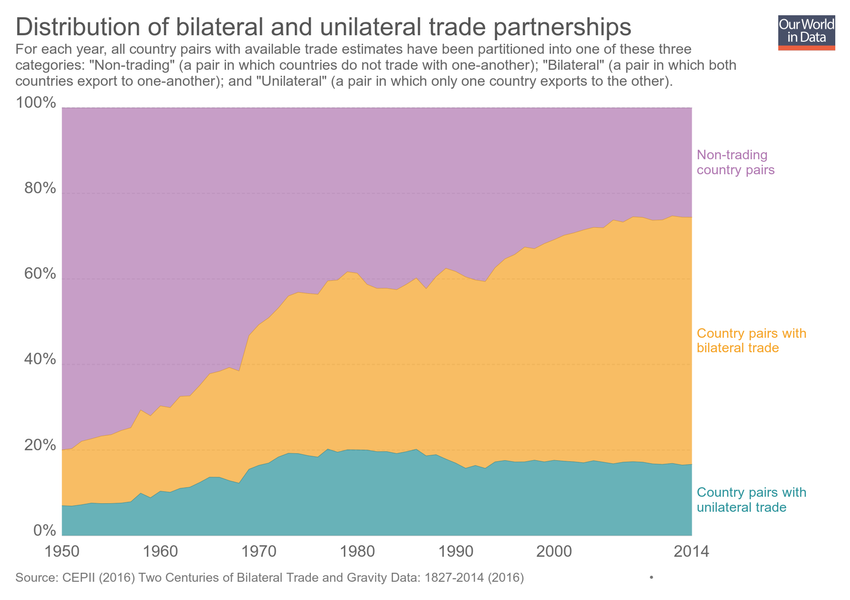
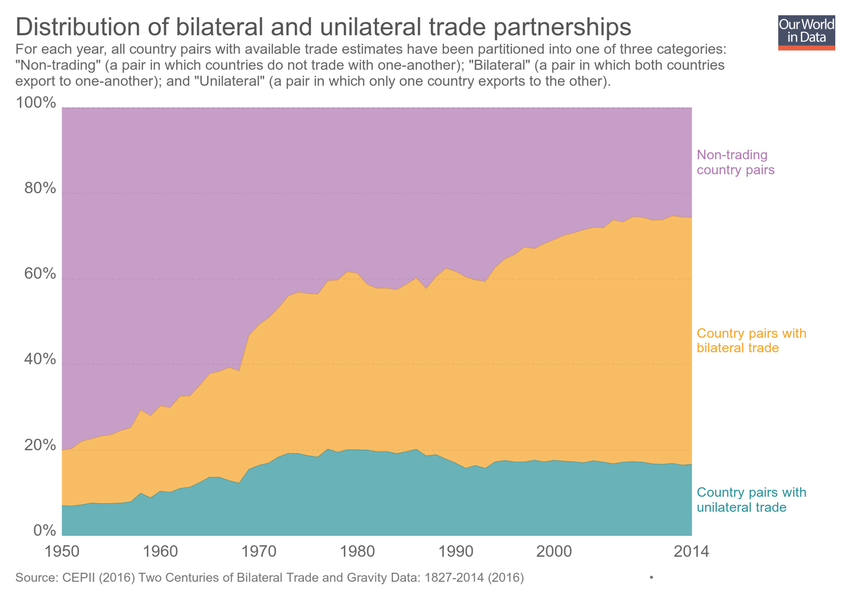
Updating chart distribution-of-bilateral-and-unilateral-trade-partnerships

Changed region(s): [[0.0, 0.06, 0.8565, 0.15]]

diff --git a/grapher/distribution-of-bilateral-and-unilateral-trade-partnerships.html b/grapher/distribution-of-bilateral-and-unilateral-trade-partnerships.html
@@ -1,4 +1,4 @@
-<!doctype html><html><head><meta name="viewport" content="width=device-width, initial-scale=1" /><title>Distribution of bilateral and unilateral trade partnerships - Our World in Data</title><meta name="description" content="For each year, all country pairs with available trade estimates have been partitioned into one of these three categories: &quot;Non-trading&quot; (a pair in which countries do not trade with one-another); &quot;Bilateral&quot; (a pair in which both countries export to one-another); and &quot;Unilateral&quot; (a pair in which only one country exports to the other)." /><link rel="canonical" href="https://ourworldindata.org/grapher/distribution-of-bilateral-and-unilateral-trade-partnerships" /><meta property="fb:app_id" content="1149943818390250" /><meta property="og:url" content="https://ourworldindata.org/grapher/distribution-of-bilateral-and-unilateral-trade-partnerships" /><meta property="og:title" content="Distribution of bilateral and unilateral trade partnerships" /><meta property="og:description" content="For each year, all country pairs with available trade estimates have been partitioned into one of these three categories: &quot;Non-trading&quot; (a pair in which countries do not trade with one-another); &quot;Bilateral&quot; (a pair in which both countries export to one-another); and &quot;Unilateral&quot; (a pair in which only one country exports to the other)." /><meta property="og:image" content="https://ourworldindata.org/grapher/exports/distribution-of-bilateral-and-unilateral-trade-partnerships.png?v=4" /><meta property="og:image:width" content="850" /><meta property="og:image:height" content="600" /><meta property="og:site_name" content="Our World in Data" /><meta name="twitter:card" content="summary_large_image" /><meta name="twitter:site" content="@OurWorldInData" /><meta name="twitter:creator" content="@OurWorldInData" /><meta name="twitter:title" content="Distribution of bilateral and unilateral trade partnerships" /><meta name="twitter:description" content="For each year, all country pairs with available trade estimates have been partitioned into one of these three categories: &quot;Non-trading&quot; (a pair in which countries do not trade with one-another); &quot;Bilateral&quot; (a pair in which both countries export to one-another); and &quot;Unilateral&quot; (a pair in which only one country exports to the other)." /><meta name="twitter:image" content="https://ourworldindata.org/grapher/exports/distribution-of-bilateral-and-unilateral-trade-partnerships.png?v=4" /><style>
+<!doctype html><html><head><meta name="viewport" content="width=device-width, initial-scale=1" /><title>Distribution of bilateral and unilateral trade partnerships - Our World in Data</title><meta name="description" content="For each year, all country pairs with available trade estimates have been partitioned into one of three categories: &quot;Non-trading&quot; (a pair in which countries do not trade with one-another); &quot;Bilateral&quot; (a pair in which both countries export to one-another); and &quot;Unilateral&quot; (a pair in which only one country exports to the other)." /><link rel="canonical" href="https://ourworldindata.org/grapher/distribution-of-bilateral-and-unilateral-trade-partnerships" /><meta property="fb:app_id" content="1149943818390250" /><meta property="og:url" content="https://ourworldindata.org/grapher/distribution-of-bilateral-and-unilateral-trade-partnerships" /><meta property="og:title" content="Distribution of bilateral and unilateral trade partnerships" /><meta property="og:description" content="For each year, all country pairs with available trade estimates have been partitioned into one of three categories: &quot;Non-trading&quot; (a pair in which countries do not trade with one-another); &quot;Bilateral&quot; (a pair in which both countries export to one-another); and &quot;Unilateral&quot; (a pair in which only one country exports to the other)." /><meta property="og:image" content="https://ourworldindata.org/grapher/exports/distribution-of-bilateral-and-unilateral-trade-partnerships.png?v=5" /><meta property="og:image:width" content="850" /><meta property="og:image:height" content="600" /><meta property="og:site_name" content="Our World in Data" /><meta name="twitter:card" content="summary_large_image" /><meta name="twitter:site" content="@OurWorldInData" /><meta name="twitter:creator" content="@OurWorldInData" /><meta name="twitter:title" content="Distribution of bilateral and unilateral trade partnerships" /><meta name="twitter:description" content="For each year, all country pairs with available trade estimates have been partitioned into one of three categories: &quot;Non-trading&quot; (a pair in which countries do not trade with one-another); &quot;Bilateral&quot; (a pair in which both countries export to one-another); and &quot;Unilateral&quot; (a pair in which only one country exports to the other)." /><meta name="twitter:image" content="https://ourworldindata.org/grapher/exports/distribution-of-bilateral-and-unilateral-trade-partnerships.png?v=5" /><style>
         html, body {
             height: 100%;
             margin: 0;
@@ -20,8 +20,8 @@
         }
     </style><noscript><style>
                     figure { display: none !important; }
-                </style></noscript><link rel="stylesheet" href="https://ourworldindata.org/grapher/assets/commons.bundle.f1a1d21b78c2ceaa055d.css" /><link rel="preload" href="/grapher/data/variables/97653+97651+97652.json?v=4" as="fetch" crossorigin /></head><body class="singleChart"><figure data-grapher-src="/grapher/distribution-of-bilateral-and-unilateral-trade-partnerships"></figure><noscript id="fallback"><img src="/grapher/exports/distribution-of-bilateral-and-unilateral-trade-partnerships.svg" /><p>Interactive visualization requires JavaScript</p></noscript><script src="https://cdn.polyfill.io/v2/polyfill.min.js?features=es6,fetch"></script><script src="https://ourworldindata.org/grapher/assets/commons.bundle.f1a1d21b78c2ceaa055d.js"></script><script src="https://ourworldindata.org/grapher/assets/charts.bundle.f1a1d21b78c2ceaa055d.js"></script><script>
-        var jsonConfig = {"id":2848,"map":{"projection":"World","colorSchemeLabels":[],"colorSchemeValues":[],"customNumericColors":[],"customCategoryColors":{},"customCategoryLabels":{},"customHiddenCategories":{}},"tab":"chart","slug":"distribution-of-bilateral-and-unilateral-trade-partnerships","type":"StackedArea","title":"Distribution of bilateral and unilateral trade partnerships","xAxis":{"scaleType":"linear"},"yAxis":{"min":0,"scaleType":"linear"},"version":4,"subtitle":"For each year, all country pairs with available trade estimates have been partitioned into one of these three categories: \"Non-trading\" (a pair in which countries do not trade with one-another); \"Bilateral\" (a pair in which both countries export to one-another); and \"Unilateral\" (a pair in which only one country exports to the other).","hasMapTab":false,"stackMode":"relative","dimensions":[{"display":{"name":"Country pairs with bilateral trade"},"property":"y","variableId":97653},{"display":{"name":"Non-trading country pairs"},"property":"y","variableId":97651},{"display":{"name":"Country pairs with unilateral trade"},"property":"y","variableId":97652}],"hasChartTab":true,"isPublished":true,"selectedData":[{"color":"#b077b1","index":1,"entityId":355},{"color":"#f6a324","index":0,"entityId":355},{"color":"#2a939b","index":2,"entityId":355}],"addCountryMode":"change-country","hideRelativeToggle":true,"hideTitleAnnotation":true};
+                </style></noscript><link rel="stylesheet" href="https://ourworldindata.org/grapher/assets/commons.bundle.f1a1d21b78c2ceaa055d.css" /><link rel="preload" href="/grapher/data/variables/97653+97651+97652.json?v=5" as="fetch" crossorigin /></head><body class="singleChart"><figure data-grapher-src="/grapher/distribution-of-bilateral-and-unilateral-trade-partnerships"></figure><noscript id="fallback"><img src="/grapher/exports/distribution-of-bilateral-and-unilateral-trade-partnerships.svg" /><p>Interactive visualization requires JavaScript</p></noscript><script src="https://cdn.polyfill.io/v2/polyfill.min.js?features=es6,fetch"></script><script src="https://ourworldindata.org/grapher/assets/commons.bundle.f1a1d21b78c2ceaa055d.js"></script><script src="https://ourworldindata.org/grapher/assets/charts.bundle.f1a1d21b78c2ceaa055d.js"></script><script>
+        var jsonConfig = {"id":2848,"map":{"projection":"World","colorSchemeLabels":[],"colorSchemeValues":[],"customNumericColors":[],"customCategoryColors":{},"customCategoryLabels":{},"customHiddenCategories":{}},"tab":"chart","slug":"distribution-of-bilateral-and-unilateral-trade-partnerships","type":"StackedArea","title":"Distribution of bilateral and unilateral trade partnerships","xAxis":{"scaleType":"linear"},"yAxis":{"min":0,"scaleType":"linear"},"version":5,"subtitle":"For each year, all country pairs with available trade estimates have been partitioned into one of three categories: \"Non-trading\" (a pair in which countries do not trade with one-another); \"Bilateral\" (a pair in which both countries export to one-another); and \"Unilateral\" (a pair in which only one country exports to the other).","hasMapTab":false,"stackMode":"relative","dimensions":[{"display":{"name":"Country pairs with bilateral trade"},"property":"y","variableId":97653},{"display":{"name":"Non-trading country pairs"},"property":"y","variableId":97651},{"display":{"name":"Country pairs with unilateral trade"},"property":"y","variableId":97652}],"hasChartTab":true,"isPublished":true,"selectedData":[{"color":"#b077b1","index":1,"entityId":355},{"color":"#f6a324","index":0,"entityId":355},{"color":"#2a939b","index":2,"entityId":355}],"addCountryMode":"change-country","hideRelativeToggle":true,"hideTitleAnnotation":true};
         var figure = document.getElementsByTagName("figure")[0];
         try {
             window.App = {};
